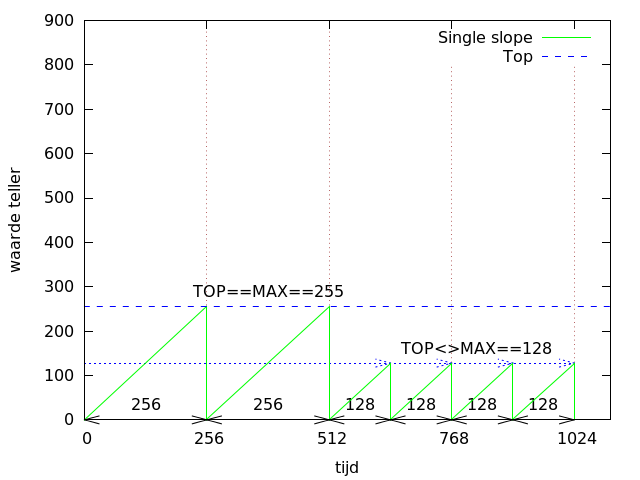
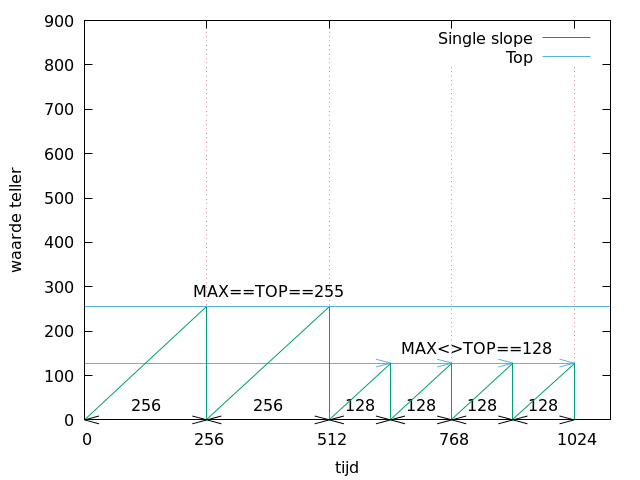
[drawings] Commit remaining modifications in drawings

diff --git a/nl/code/code_avr_pwm_basis.md b/nl/code/code_avr_pwm_basis.md
@@ -86,13 +86,13 @@ Een teller met zo'n **zaagtand**-vorm benoemen we **single-slope**-teller (1 hel
 * Tot de top-waarde 255 (top-waarde voor 8-bit resolutie)
 * Zal terug naar de bodem-waarde gaan
 
-### Bottom en Top
+### Bottom en Max
 
 Aan deze zaagtand zijn dus 2 belangrijke **boundaries** verbonden:
 
 * Een **BOTTOM**-waarde:  
   De "bodem"-waarde vanaf waar men (terug) begint naar boven te tellen.
-* een **TOP**-waarde:   
+* een **MAX**-waarde:   
   De hoogste waarde die deze teller kan bevatten (afhankelijk van de resolutie).    
 
 In dit voorbeeld werken we met een **8-bit** teller en is deze **TOP** gelijk aan **0xFF** (255).   
@@ -103,22 +103,22 @@ Bij een **16-bit** teller zou dit **0xFFFF** (65535) zijn
 > **Gemakkelijkshalve** laten we de **werkelijke snelheid** van de klok **achterwege**, we gaan er van uit dat deze snelheid een **constante** is.  
 > Als we over de implementatie op de **AVR** starten zullen we deze frequentie afleiden van de basis-klok zoals we dat eerder bij timers dede.  
 
-### Max (en frequentie)
+### TOP (vs frequentie)
 
-Met de vaste **BOTTOM** en **TOP** blijft de **frequentie** echter op een **constant** niveau zitten  van **256** ticks (0-255 bij 8-bit).
+Met de vaste **BOTTOM** en **MAX** blijft de **frequentie** echter op een **constant** niveau zitten  van **256** ticks (0-255 bij 8-bit).  
+(ook natuurlijk afhankelijk van de onderliggene counter/timer + prescaler)
 
-Bij **PWM** is kan je natuurlijk niet voor elke toepassing de zelfde frequentie toe te passen.   
-Daarom voegen we het concept **MAX** toe:
+Bij **PWM** kan je frequentie-keuze nog verfijnen door het concept van **MAX** toe te voegen:
 
 ![](../../gnuplot/single_slope_with_max.png)
 
-Waar **TOP** de absolute grens was is **MAX** nu de feitelijke maximum waarde tot waar we kunnen tellen.  
-Deze hoeft (zie hierboven) niet gelijk te zijn aan **TOP** (maar dient vanzelfsprekend welk kleiner te zijn).  
+Waar **MAX** de absolute grens was, is **TOP** nu de **feitelijke maximum waarde** tot waar we kunnen tellen.  
+Deze hoeft (zie hierboven) niet gelijk te zijn aan **MAX** (maar dient vanzelfsprekend welk kleiner te zijn).  
 
-Door max te laten varieren kunnen we de **frequentie** of **periode** van het het **optellen** **wijzigen**:  
+Door top te laten varieren kunnen we de **frequentie** of **periode** van het het **optellen** **wijzigen** zonder de onderliggende timer te manipuleren:  
 
 * Bij de eerste 2 slopes is deze MAX==TOP en zitten we op een periode van 256 ticks
-* Bij de slopes die daarop volgen brengen MAX naar 128 waardoor we een kortere periode krijgen (ook 128 gezien de BOTTOM==0)
+* Bij de slopes die daarop volgen brengen we TOP naar 128 waardoor we een kortere periode krijgen (ook 128 gezien de BOTTOM==0)
 
 ### PWM maken met een teller?
 
@@ -134,7 +134,7 @@ We passen de volgende sequentie toe:
 
 1. Wanneer de **teller** aan de **BOTTOM**-waarde zit **set** je een signaal => lijn gaat **HOOG**
 2. Wanneer de teller een **COMPARE** OF **MATCH**-waarde hebt **clear** je dit signaal => lijn gaat **LAAG**
-3. Bij het bereiken van de **MAX**-waarde zal de teller zich naar de **BOTTOM**-waarde
+3. Bij het bereiken van de **TOP**-waarde zal de teller zich naar de **BOTTOM**-waarde
 4. ... Het process herhaalt zich bij punt 1:
      * Het signaal zet zich terug **HOOG** zetten (zie punt 1)
      * We tellen terug omhoog richting punt 2
@@ -168,7 +168,7 @@ In bovenstaand voorbeeld:
 
 ![](../../gnuplot/single_slope_with_one_output_varying_freq.png)
 
-In bovenstaand voorbeeld zien we ook dat als we het **MAXIMUM** ook onrechtstreeks van invloed is op de **duty-cycle** als je niet tegelijkertijd de **MATCH** aanpast:
+In bovenstaand voorbeeld zien we ook dat als we de **TOP** ook onrechtstreeks van invloed is op de **duty-cycle** als je niet tegelijkertijd de **MATCH** aanpast:
 
 * De eerste **2 pulsen**, zoals voorgaande voorbeelden geven een duty-cycle van ~50 %.
 * Bij de **3de puls** echter **wijzigt** de **frequentie**.  
@@ -223,11 +223,11 @@ Het gedeelte dat de teller onder deze **COMPARE**-waarde zit bepaalt (net zoals 
 De **duty-cycle** **verspreidt** zich bij een **dual slope** als ware over **2 delen**/helften van de puls.  
 
 
-### Voor -en nadelen van Dual Slope
+### Voor- en nadelen van Dual Slope
 
 Dit heeft 2 belangrijke **(zij-)effecten**:
 
-* De puls zal **2 * zo traag** zijn in verhouding tot een type **single slope** **(nadeel)**  
+* De puls zal **2 maal zo traag** zijn in verhouding tot een type **single slope** **(nadeel)**  
   Je telt 1 maal naar top en naar bottom
 * De puls zal echter altijd in **dezelfde fase** blijven **(voordeel)**  
  ongeacht de **match**-waarde  
@@ -242,3 +242,21 @@ Het in fase blijven van de 2 outputs wordt nog meer duidelijk als je een **dual 
 ook al verander je de duty-cycle behouden we dezelfde verhouding:
 
 ![](../../gnuplot/dual_slope_with_two_outputs_and_duty_cycle_change.png)
+
+### Samengevat
+
+We hebben een **teller-functie** grafisch voorgesteld:
+
+* In functie van tijd (x-as)
+* Als tellerwaarden (y-as)
+* Die lineair stijgt (en daalt in geval van een dual slope)
+* Tot dat we aan een TOP-waarde geraken
+* zich reset naar BOTTOM (0)
+
+Op basis van deze teller-functie hebben we de eigenlijde **pwm-functie**
+
+* (ook) in functie van tijd (x-as)
+* met als waarde 0 of 1
+* die togglet als de teller-functie een COMPARE-waarde bereikt
+
+**TOP** zal de frequentie bepalen waar **COMPARE** de duty-cycle zal bepalen

diff --git a/nl/code/code_avr_timer_direct_output.md b/nl/code/code_avr_timer_direct_output.md
@@ -1,4 +1,4 @@
-## Directe output met timers
+## Van timer naar generator (en PWM)
 
 Tot nog toe bekeken we de timer/counter-architectuur puur **vanuit het gebruik als timer**.  
 Vanuit interrupt-code (of via directe interactie met het TIFR-register in de main) stuurden we 1 van de gpio-pinnen aan.
@@ -20,7 +20,7 @@ Voor bijvoorbeeld timer 1 noemen deze **OC1A** en **OC1B** en komen deze respect
 ### Voorbeeld: compare output mode
 
 Het gebruik van deze pinnen is een basis-bouwsteun naar de andere PWM-modes toe.  
-We starten met een kleine demonstratie in de al vertrouwde CTC-mode.  
+We starten met een kleine demonstratie in de al vertrouwde CTC-mode (clear timer on compare).  
 
 > **Let wel:**  
 > Je moet nog altijd de betreffende pinnen al output aanduiden.  
@@ -50,7 +50,7 @@ int main(void)
       return 0;
 }
 ```
-Het grootste deel van de code is identiek aan vorige voorbeelden:
+Het grootste deel van de code is identiek aan voorgaande timers-voorbeelden:
 
 * Initialiseren van de pinnen
 * Configuratie van de prescaler (clock-select)
@@ -60,9 +60,9 @@ Het grootste deel van de code is identiek aan vorige voorbeelden:
 We zien echter 2 verschillen:
 
 * **Geen rechtstreeks** setten of clearen van **GPIO's**
-* Het instelen van een andere **Compare Output Mode**
+* Het instelen van een andere **Compare Output Mode** (zie tabel met in datasheet)
 
-Deze configuratie (COM1A0 en COM1B0) zorgt ervoor dat OC1A/OC1B worden getoggled als een compare wordt bereikt op een respectievelijk OCR1A/OCR1B.
+Deze configuratie van de **Compare Output Mode**, (COM1A0 en COM1B0 waren daarvoor 00) zorgt ervoor dat OC1A/OC1B worden getoggled als een compare wordt bereikt op een respectievelijk OCR1A/OCR1B.
 
 > Kijk als oefening in de datasheet voor de tabel die dit gedrag beschrijft   
 > (hint: vlak bij de beschrijving van TCCR1A-register)
@@ -77,12 +77,12 @@ Als je de code wijzigt en beide OCR1A en OCR1B op 100 zet krijg je volgend resul
 
 ### Vervolg...
 
-Door CTC te gebruiken kunnen we:
+Door CTC (met deze nieuwe Compare Output Mode) te gebruiken kunnen we:
 
 * **Zonder software-acties** (buiten configuratie) 2 blok-golven aansturen
 * Op 2 uitgangen
 * Wijzigen van **OCR1A** stelt ons in staat de frequentie te wijzigen
 * Door **OCR1B** te manipuleren kunnen we de fase wijzigen
 
-Wat er nog ontbreekt echter, om PWM te kunnen genereren, is het genereren van een duty-cycle.  
+Wat er nog ontbreekt echter, om PWM te kunnen genereren, is het genereren van een duty-cycle (momenteel staat deze vast op 50 %).  
 Dit kan door het gebruik van andere PWM-Modes, hier komen we nog snel op terug...

diff --git a/nl/code/avr_adc.md b/nl/code/avr_adc.md
@@ -23,7 +23,7 @@ Zulke sensors zullen:
 ![](../../pictures/sensors_transduction.png)
 
 Deze elektronische (analoge) signalen moeten door de **digitale** processoren van onze microcontrollers (AVR, ARM, PIC,...) omgezet worden in discrete getallen en bytes.  
-Om dit te kunnen uitvoeren gebruiken we ADC (ofwel **A**nalog **D**igital **C**onversion), een mechanisme dat samples van een analoog signaal zal nemen en deze omrekenen naar een discrete waarde.
+Om dit te kunnen uitvoeren gebruiken we ADC (ofwel Analog Digital Conversion), een mechanisme dat samples van een analoog signaal zal nemen en deze omrekenen naar een discrete waarde.
 
 
 ### Duiding: ADC-hardware
@@ -73,8 +73,8 @@ We leggen dit uit aan de hand van een voorbeeld (cijfers abritrair gekozen):
 
 * De referentie-spanning is 8 v
 * De input is 2.76
-* Het resultaat van onze meting wordt opgevangen in een 4 bit register  
-  (in werkelijkheid is het een 10-bit register)
+* Het resultaat van onze meting wordt opgevangen in een **4 bit register**  
+  (in werkelijkheid is het een 10-bit register, we proberen het gemakkelijk uit te leggen)
 
 ![](../../pictures/table_succesive_aproximation.png)
 
@@ -102,8 +102,8 @@ Als we hier nu de volgende berekeningen op los laten:
 ```
 Max-waarde 2 ^ 16       = 16
 ADC        0101         =  5
-Verhouding 16/5         =  0,3125
-Spanning   0,3125 * 8 v =  2,5
+Verhouding 5/16         =  0,3125
+Spanning   0,3125 * 8 v =  2,5 (= 5/16 * 8 v)
 ```
 
 #### Nauwkeurigheid
@@ -111,8 +111,6 @@ Spanning   0,3125 * 8 v =  2,5
 We hebben in dit geval de spanning kunnen bepalen met een nauwkeurigheid van ```0.5 V = 8 V / 2 ^ 4```
 
 Om het voorbeeld éénvoudig te houden gebruikten we een 4 bit nauwkeurigheid , in werkelijkheid hebben we een 10-bit nauwkeurigheid (8 / 2 ^ 10 = 0,0078125).  
-Als je dan de werkelijke waarde zou willen weten moet je de volgende formule toepassen:
-
 
 ### Setup: LDR en spannings-deling
 
